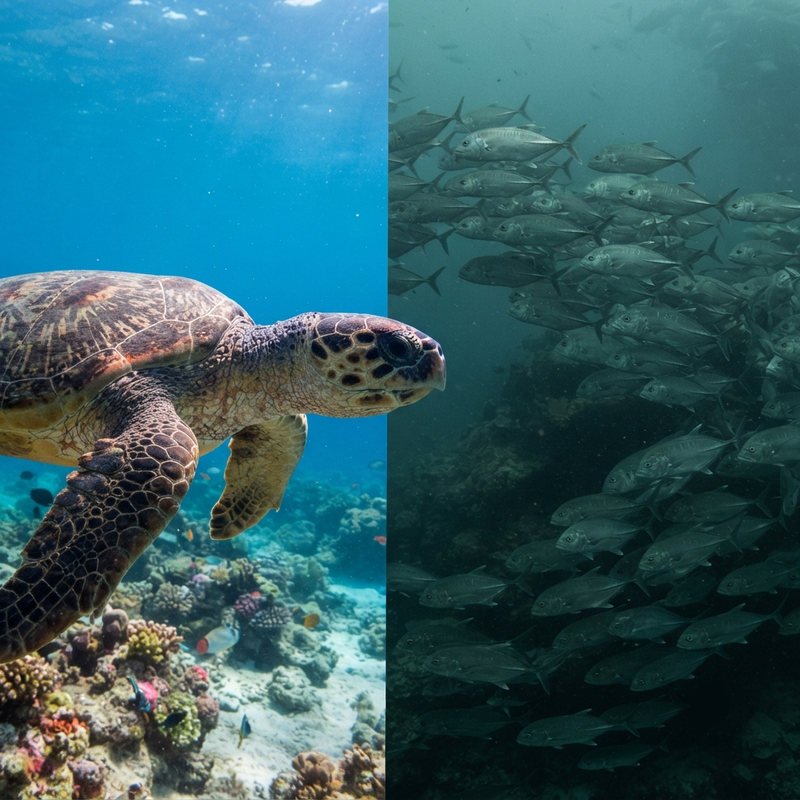
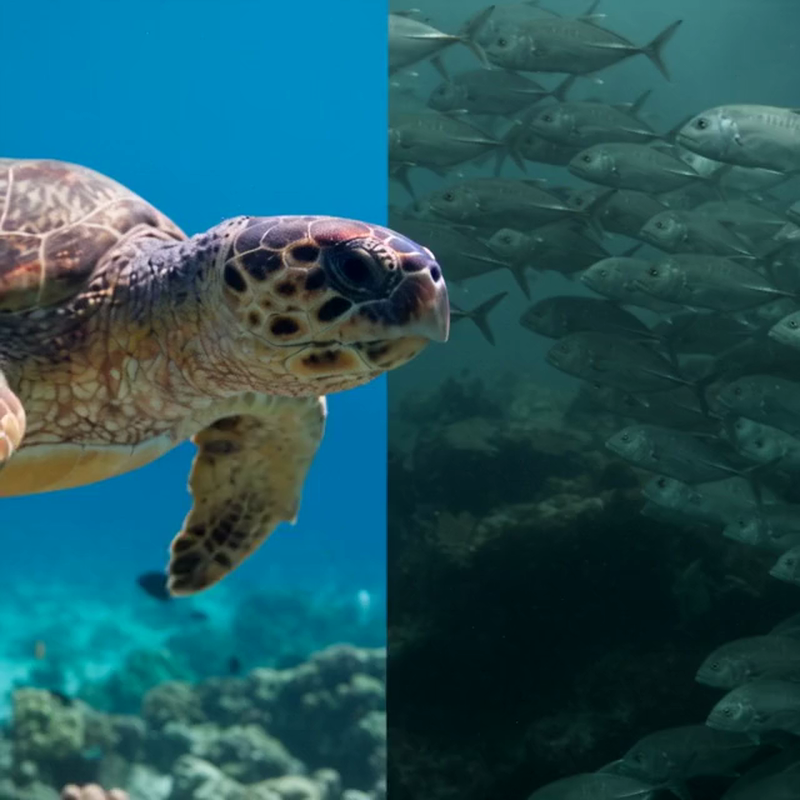
v0.17.3 시작 창 = 시작 영상(워터마크 지움) · AUTO = 재생 뒤 자동 창 · 누르면 건너뜀
Claude-Session: https://claude.ai/code/session_012p9REoBLCV87B4BC65Y9Vn

diff --git a/app/dtme/ui_launch.py b/app/dtme/ui_launch.py
@@ -1,12 +1,14 @@
 """시작 창(v0.16.52 틀 · v0.17.0 [AUTO] 하나): 제목 표시줄·테두리 없는 400×560, 위 = 정사각형 그림(assets/start.png)
 + 왼쪽 위 'DTME'·버전 + 오른쪽 위 ✕(종료) + 오른쪽 아래 세로 글자, 아래(#262626) = [AUTO] 160×48. 빈 곳을 끌어 옮김.
 [AUTO] = 빈 자동 창(ui_autowin) · 끌어다 놓기 = 그 파일이 들어간 자동 창 · 프로젝트 파일 = 바로 편집 화면.
-자동 창 [취소] = 넣은 영상 버리고 이 창으로 · 렌더 끝 [닫기] = 프로그램 종료 · 그 밖 = 편집 화면."""
+자동 창 [취소] = 넣은 영상 버리고 이 창으로 · 렌더 끝 [닫기] = 프로그램 종료 · 그 밖 = 편집 화면.
+v0.17.3: 그림 자리 = 시작 영상(assets/start.mp4, 4초 · 소리 없음). 처음 = 첫 장면(start.png)에 멈춤 → [AUTO] = 재생(버튼 흐림),
+끝나면 자동 창 · 재생 중 그림을 누르면 바로 자동 창 · 끌어다 놓기 = 재생 없이 바로 · [취소]로 돌아오면 다시 첫 장면."""
 from __future__ import annotations
 
 from pathlib import Path
 
-from PySide6.QtCore import Qt
+from PySide6.QtCore import Qt, QTimer, QUrl
 from PySide6.QtGui import QColor, QFont, QPainter, QPixmap
 from PySide6.QtWidgets import QLabel, QPushButton, QVBoxLayout, QWidget
 
@@ -40,6 +42,7 @@ def collect_videos(paths) -> list[str]:
 
 
 IMG = 400                                      # 그림 한 변(논리 px). 그림 파일은 800×800(고배율 화면용)
+INTRO_MAX = 10.0                               # 시작 영상이 이 초 안에 안 끝나면(재생 안 됨 등) 그냥 자동 창으로
 W, H = IMG, IMG + 160
 SIDE_TEXT = "Diving Tour Movie Editor"
 
@@ -84,14 +87,9 @@ class Launcher(QWidget):
         self.img = QLabel(self)
         self.img.setFixedSize(IMG, IMG)
         self.img.setAlignment(Qt.AlignCenter)
-        pm = QPixmap(str(paths.asset("start.png")))
-        if pm.isNull():
-            self.img.setStyleSheet("background:#3a3a3a;")
-        else:
-            dpr = self.devicePixelRatioF() or 1.0
-            pm = pm.scaled(round(IMG * dpr), round(IMG * dpr), Qt.KeepAspectRatioByExpanding, Qt.SmoothTransformation)
-            pm.setDevicePixelRatio(dpr)
-            self.img.setPixmap(pm)
+        self.player = None                          # 시작 영상 재생기(재생할 때만 만듦)
+        self.playing = False
+        self._show_still()
         head = QWidget(self.img)
         head.setAttribute(Qt.WA_TransparentForMouseEvents, True)     # 글자 위를 잡아도 창이 끌림
         hl = QVBoxLayout(head)
@@ -133,7 +131,7 @@ class Launcher(QWidget):
         f.setPointSizeF(f.pointSizeF() * 1.3)
         f.setBold(True)
         self.b_auto.setFont(f)
-        self.b_auto.clicked.connect(lambda: self.run_auto([]))
+        self.b_auto.clicked.connect(self.play_intro)
         v = QVBoxLayout(self)
         v.setContentsMargins(0, 0, 0, 0)
         v.setSpacing(0)
@@ -142,12 +140,88 @@ class Launcher(QWidget):
         v.addWidget(self.b_auto, 0, Qt.AlignHCenter)
         v.addStretch(1)
 
+    # ------------------------------------------------------------ 시작 영상(v0.17.3)
+    def _set_pix(self, pm: QPixmap):
+        dpr = self.devicePixelRatioF() or 1.0
+        pm = pm.scaled(round(IMG * dpr), round(IMG * dpr), Qt.KeepAspectRatioByExpanding, Qt.SmoothTransformation)
+        pm.setDevicePixelRatio(dpr)
+        self.img.setPixmap(pm)
+
+    def _show_still(self):
+        """첫 장면(start.png — 시작 영상 첫 프레임)."""
+        pm = QPixmap(str(paths.asset("start.png")))
+        if pm.isNull():
+            self.img.setStyleSheet("background:#3a3a3a;")
+        else:
+            self._set_pix(pm)
+
+    def play_intro(self):
+        """[AUTO] = 시작 영상 재생 → 끝나면 자동 창. 영상이 없거나 재생이 안 되면 바로 자동 창."""
+        import os
+        if self.playing:
+            return
+        clip = paths.asset("start.mp4")
+        if not clip.exists() or os.environ.get("DTME_NO_INTRO"):
+            self.run_auto([])
+            return
+        try:
+            from PySide6.QtMultimedia import QMediaPlayer, QVideoSink
+        except Exception:  # noqa: BLE001 — 재생 모듈 없음 = 바로
+            self.run_auto([])
+            return
+        self.playing = True
+        self.b_auto.setEnabled(False)
+        self.player = QMediaPlayer(self)
+        self.sink = QVideoSink(self)
+        self.player.setVideoSink(self.sink)            # 소리 출력 없음(영상에 소리도 없음)
+        self.sink.videoFrameChanged.connect(self._frame)
+        self.player.mediaStatusChanged.connect(
+            lambda st: self._intro_done() if st in (QMediaPlayer.EndOfMedia, QMediaPlayer.InvalidMedia) else None)
+        self.player.errorOccurred.connect(lambda *_a: self._intro_done())
+        self._guard = QTimer(self)
+        self._guard.setSingleShot(True)
+        self._guard.timeout.connect(self._intro_done)
+        self._guard.start(int(INTRO_MAX * 1000))
+        self.player.setSource(QUrl.fromLocalFile(str(clip)))
+        self.player.play()
+
+    def _frame(self, fr):
+        if not self.playing:
+            return
+        im = fr.toImage()
+        if not im.isNull():
+            self._set_pix(QPixmap.fromImage(im))
+
+    def _intro_done(self):
+        """재생 끝 · 그림 누름 · 오류 · 시간 넘음 → (한 번만) 자동 창."""
+        if not self.playing:
+            return
+        self.playing = False
+        self._guard.stop()
+        pl, self.player = self.player, None
+        if pl is not None:
+            try:
+                pl.stop()
+            except RuntimeError:
+                pass
+            pl.deleteLater()
+        QTimer.singleShot(0, self._after_intro)
+
+    def _after_intro(self):
+        self.run_auto([])
+        if self.isVisible():                            # [취소]로 돌아옴 = 다시 첫 장면에 멈춤
+            self._show_still()
+            self.b_auto.setEnabled(True)
+
     def _style(self, hot):
         self.setStyleSheet("#Launcher{background:#262626; border:none;}" if not hot else
                            "#Launcher{background:#262a30; border:2px dashed #4a8fe0;}")     # 끌어 놓는 동안만 점선
 
     # ------------------------------------------------------------ 빈 곳을 끌어 옮김(제목 표시줄이 없음)
     def mousePressEvent(self, e):
+        if self.playing and e.button() == Qt.LeftButton and self.img.geometry().contains(e.position().toPoint()):
+            self._intro_done()                          # 재생 중 그림 누름 = 바로 자동 창
+            return
         if e.button() == Qt.LeftButton:
             self._drag = e.globalPosition().toPoint() - self.frameGeometry().topLeft()
         super().mousePressEvent(e)

diff --git a/tests/test_ui_v1730.py b/tests/test_ui_v1730.py
@@ -1,0 +1,82 @@
+"""v0.17.3 시작 창 영상: 첫 장면에 멈춤 → [AUTO] = 재생(버튼 흐림 · 그림이 바뀜) → 끝나면 자동 창 · 재생 중 그림 누름 = 바로 ·
+끌어다 놓기 = 재생 없이 · [취소]로 돌아오면 다시 첫 장면 · 시작 영상 = 워터마크 없음(왼쪽 위가 물색).
+사용: python tests/test_ui_v1730.py"""
+import os, sys, time  # noqa: E401
+sys.path.insert(0, os.path.join(os.path.dirname(os.path.abspath(__file__)), "..", "app"))
+os.environ["QT_QPA_PLATFORM"] = "offscreen"; os.environ["DTME_NO_AUDIO"] = "1"
+from PySide6.QtCore import QPoint, Qt, QTimer  # noqa: E402
+from PySide6.QtTest import QTest  # noqa: E402
+from PySide6.QtWidgets import QApplication  # noqa: E402
+import main as M  # noqa: E402
+from dtme import ff, paths  # noqa: E402
+from dtme.ui_launch import Launcher  # noqa: E402
+from dtme.ui_main import MainWindow  # noqa: E402
+app = QApplication(sys.argv); M.dark(app)
+
+
+def wait(sec, cond=None):
+    t = time.time()
+    while time.time() - t < sec:
+        app.processEvents(); time.sleep(0.01)
+        if cond and cond(): return True
+    return False
+
+
+clip = paths.asset("start.mp4")
+pr = ff.probe(str(clip))
+assert clip.exists() and 3.5 < float(pr["duration"]) < 5 and not pr.get("audio"), pr
+mw = MainWindow()
+la = Launcher(mw); la.show(); wait(0.2)
+still = la.img.pixmap().toImage()
+assert not still.isNull() and not la.playing and la.b_auto.isEnabled()
+# 왼쪽 위(예전 워터마크 자리) = 고른 물색(글자 없음)
+import numpy as np  # noqa: E402
+im = still.convertToFormat(still.Format.Format_RGB888)
+a = np.frombuffer(im.constBits(), np.uint8).reshape(im.height(), im.bytesPerLine())[:, :im.width() * 3].reshape(im.height(), im.width(), 3)
+sx = im.width() / 640.0
+box = a[int(56 * sx):int(108 * sx), int(54 * sx):int(220 * sx)].astype(float)
+print("워터마크 자리 밝기 표준편차", round(float(box[..., 2].std()), 1), "· 파랑", round(float(box[..., 2].mean()), 1))
+assert box[..., 2].std() < 12 and box[..., 2].mean() > box[..., 0].mean() + 60, "물색만"
+
+seen = []
+
+
+def poke(what):
+    """자동 창이 뜨면 기록하고 [취소]."""
+    from PySide6.QtWidgets import QApplication as _A
+    dd = next((x for x in _A.topLevelWidgets() if type(x).__name__ == "AutoWindow" and x.isVisible()), None)
+    if dd is None:
+        QTimer.singleShot(50, lambda: poke(what)); return
+    seen.append((what, time.time(), la.isVisible()))
+    dd.cancel()
+
+
+# 1) [AUTO] = 재생 → 끝나면 자동 창
+t0 = time.time()
+QTimer.singleShot(50, lambda: poke("auto"))
+la.b_auto.click()
+assert la.playing and not la.b_auto.isEnabled()
+changed = wait(3.0, lambda: la.img.pixmap().toImage() != still)
+print("재생 중 그림 바뀜:", changed)
+assert wait(15, lambda: bool(seen)), "자동 창이 안 뜸"
+took = seen[0][1] - t0
+print("자동 창까지", round(took, 2), "초")
+assert changed and 3.0 < took < 9.0 and seen[0][2] is False, seen       # 영상(4초)이 끝난 뒤 · 시작 창 숨김
+assert wait(2, lambda: la.isVisible() and la.b_auto.isEnabled() and not la.playing)
+assert la.img.pixmap().toImage() == still, "[취소] = 다시 첫 장면"
+# 2) 재생 중 그림 누름 = 바로 자동 창
+seen.clear(); t0 = time.time()
+QTimer.singleShot(50, lambda: poke("skip"))
+la.b_auto.click(); wait(0.5)
+QTest.mouseClick(la, Qt.LeftButton, Qt.NoModifier, QPoint(200, 200))
+assert wait(5, lambda: bool(seen))
+print("건너뜀: 자동 창까지", round(seen[0][1] - t0, 2), "초")
+assert seen[0][1] - t0 < 2.5
+assert wait(2, lambda: la.isVisible() and la.b_auto.isEnabled())
+# 3) 끌어다 놓기(run_auto 바로) = 재생 없음
+seen.clear(); t0 = time.time()
+QTimer.singleShot(50, lambda: poke("drop"))
+la.run_auto([])
+assert seen and seen[0][1] - t0 < 1.5 and not la.playing
+print("OK test_ui_v1730", flush=True)
+os._exit(0)

diff --git a/tests/test_ui_start.py b/tests/test_ui_start.py
@@ -13,7 +13,7 @@ from dtme.ui_launch import Launcher
 app = QApplication(sys.argv); M.dark(app)
 mw = MainWindow()
 la = Launcher(mw); la.show(); app.processEvents()
-assert paths.asset("start.png").exists() and paths.asset("dtme.ico").exists(), "assets 없음"
+assert paths.asset("start.png").exists() and paths.asset("dtme.ico").exists() and paths.asset("start.mp4").exists(), "assets 없음"
 assert la.windowFlags() & Qt.FramelessWindowHint, "제목 표시줄 없음"
 assert (la.width(), la.height()) == (400, 560)
 assert (la.img.width(), la.img.height()) == (400, 400) and not la.img.pixmap().isNull()

diff --git a/tests/test_ui_v1700.py b/tests/test_ui_v1700.py
@@ -214,7 +214,9 @@ def poke(what):
 
 poke.last = d6
 QTimer.singleShot(100, lambda: poke("cancel"))
-L2.b_auto.click()                                   # 빈 자동 창
+poke.seen = None
+L2.b_auto.click()                                   # 빈 자동 창(v0.17.3 = 시작 영상 4초 뒤)
+wait(20, lambda: poke.seen is not None and L2.isVisible() and not L2.playing)
 assert poke.seen == (0, False, True), poke.seen
 assert L2.isVisible() and not w.isVisible() and not quits, "[취소] = 시작 창으로"
 QTimer.singleShot(100, lambda: poke("edit"))

diff --git a/app/dtme/__init__.py b/app/dtme/__init__.py
@@ -1,1 +1,1 @@
-__version__ = "0.17.2"
+__version__ = "0.17.3"

diff --git a/HANDOFF.md b/HANDOFF.md
@@ -1,6 +1,13 @@
 # HANDOFF — DTME (Diving Tour Movie Editor)
 
-다음 대화는 이 문서를 기준으로 이어서 작업한다. **2026-11-18 = v0.17.2(§0-116) 빌드 44266540772 = 성공(54분, 경고 없음 — `test_ui_v1691` 도 CI 에서 끝까지 통과).** **다음 = 사용자 PC 확인(§0-116 맨 아래) → 영문판(§0-102).** 이전: v0.17.1(§0-114, 빌드 44234880875) PC 확인에서 나온 것 = §0-115 → v0.17.2.
+다음 대화는 이 문서를 기준으로 이어서 작업한다. **2026-11-18 22:4x = v0.17.3(§0-117 시작 창 영상) 푸시·빌드.** v0.17.2(§0-116) 빌드 44266540772 = 성공(54분, 경고 없음). **다음 = 사용자 PC 확인(§0-116 맨 아래 + §0-117) → 영문판(§0-102).**
+
+## 0-117. v0.17.3 시작 창 영상 (사용자 11/18 22:44 요청 · 22:46 'ㄱㄱ')
+- 시작 창 그림 자리(400×400) = **시작 영상 `assets/start.mp4`**(사용자가 준 DomoAI 영상 640×640 · 4초 · 24fps — 왼쪽 위 'DomoAI' 워터마크를 `delogo=x=54:y=56:w=166:h=52` 로 지움 · H.264 CRF 20 · **소리 뺌** · 780KB). `start.png` = 그 영상 첫 장면(800×800, 예전 사진을 바꿈).
+- 동작(정한 것 — 추천대로): 처음 = 첫 장면에 멈춤 → [AUTO] = 재생(버튼 흐림) → 끝나면 자동 창 · **재생 중 그림 누름 = 바로 자동 창** · **끌어다 놓기 = 재생 없이 바로** · 자동 창 [취소]로 돌아오면 다시 첫 장면에 멈춤 · 소리 없음. 영상 없음·재생 안 됨·10초 안에 안 끝남 = 그냥 자동 창(`INTRO_MAX`). 재생 = QMediaPlayer + QVideoSink → 그림 자리에 직접 그림(DTME 글자·✕·세로 글자가 위에 그대로). 시험 = 환경변수 `DTME_NO_INTRO` 면 재생 안 함.
+- 주의(사용자에게 말함): DomoAI 무료 플랜은 워터마크 제거를 약관으로 막는 경우가 많음 — 공개 배포 전 플랜 조건 확인.
+- 시험: `test_ui_v1730`(멈춤 → 재생 → 4.2초 뒤 자동 창 · 건너뜀 0.6초 · 끌어 놓기 = 바로 · 워터마크 자리 = 고른 물색) · `test_ui_v1700`(시작 창 [AUTO] 뒤 영상 기다림) · `test_ui_start`(assets 에 start.mp4).
+- PC 에서 볼 것: 시작 창 첫 장면 · [AUTO] 재생이 매끄러운가(끊김·검은 화면) · 끝나고 자동 창이 바로 뜨는가 · 재생 중 누르면 건너뛰는가.
 
 ## 0-116. v0.17.2 (사용자 11/18 15:53 'ㄱㄱ' — §0-115 목록 추천대로)
 - **① 전체 길이 = 늘 직접 지정(분:초) + [곡 길이에 맞춤] 체크**(`ui_autowin.LengthBox`): 체크 = 칸 숫자가 곡 길이(+ 끝 화면 8초 = 파일 길이)로 바뀌고 흐림, 끄면 원래 숫자. 올린 곡 1~2개 + 음악 단계 켬일 때만 켤 수 있음(3곡 이상·기본 음악만·음악 끔 = 흐림). **체크는 기억 안 함**(창을 열 때마다 꺼짐 — v0.17.1 은 올린 곡이 있으면 저절로 곡에 맞춤이 돼서 '3분'이 곡 길이로 나옴). settings `autowin.len_mode` 안 씀(남은 값도 안 따름).

diff --git a/README.md b/README.md
@@ -37,7 +37,7 @@ DJI Osmo Action 4 **D-Log M 4K60** 영상을 빠르게 컷 → 보정 → 출력
 - **샘플**: 현재 클립 전체(인/아웃과 무관)에서 고르게 6장을 PNG로 만들어 오른쪽 아래에 표시. 클릭 = 모니터에 크게(이동·재렌더 없음), 더블클릭 = PNG 열기
 
 ### 자동 창 (v0.17.0)
-프로그램을 켜면 뜨는 시작 창의 **AUTO**, 편집 창 소스 목록 맨 위 빨간 **AUTO** = 같은 **자동 창**.
+프로그램을 켜면 뜨는 시작 창의 **AUTO**, 편집 창 소스 목록 맨 위 빨간 **AUTO** = 같은 **자동 창**. (시작 창 **AUTO** = 시작 영상이 4초 재생된 뒤 자동 창 — 재생 중 그림을 누르면 바로 넘어감 · 파일을 끌어다 놓으면 재생 없이 바로)
 - 왼쪽 = 영상 목록(여행별 묶음 `기간 · 지명` · 체크 = 이번 편집에 넣음 · Del = 목록에서 제거 · 방향 다른 클립 `세로`). 영상·폴더·음악·사진·다이빙 기록(FIT·DTMD)을 창 어디든 끌어다 놓기 · 우클릭 = 파일 추가 / 폴더 추가 / 프로젝트 열기(프로젝트 파일 = 바로 편집 화면)
 - 오른쪽 아래 = 단계 4줄 **[보정] [편집] [음악] [렌더]**: 체크 칸 = 켬/끔 · 줄 = 펼쳐서 설정(한 번에 하나) · 마지막 선택을 기억(렌더 기본 = 끔)
   - 보정 = 프리셋 자동/지정 · 강도 · 기존 보정 · 키프레임 · LUT · 렌즈·흔들림 보정
